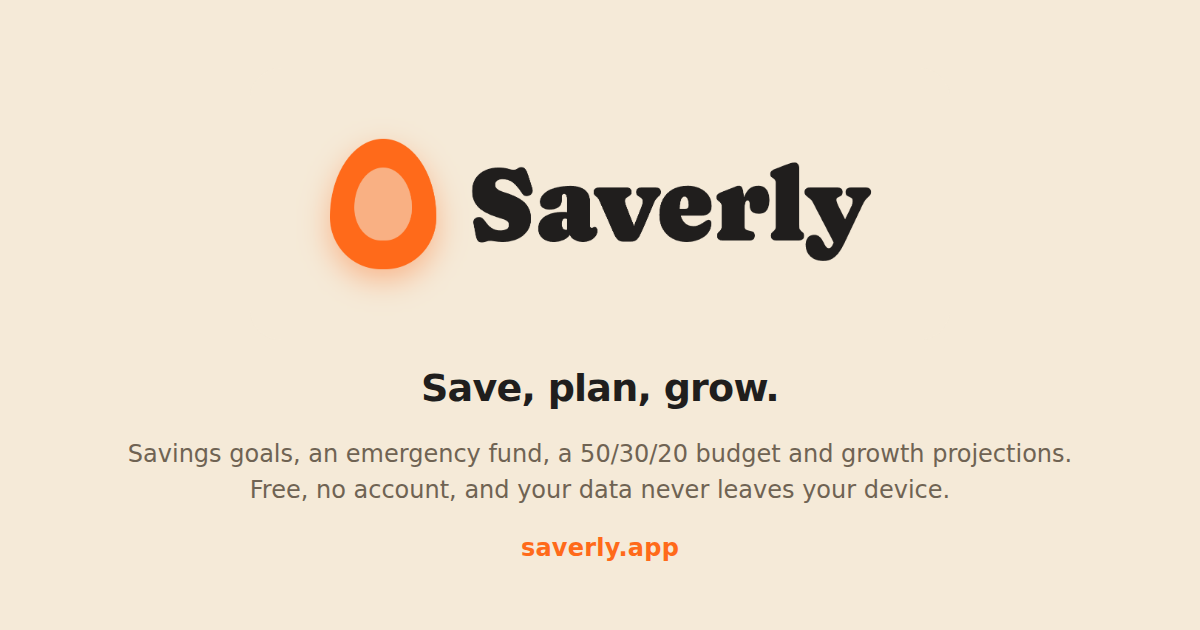
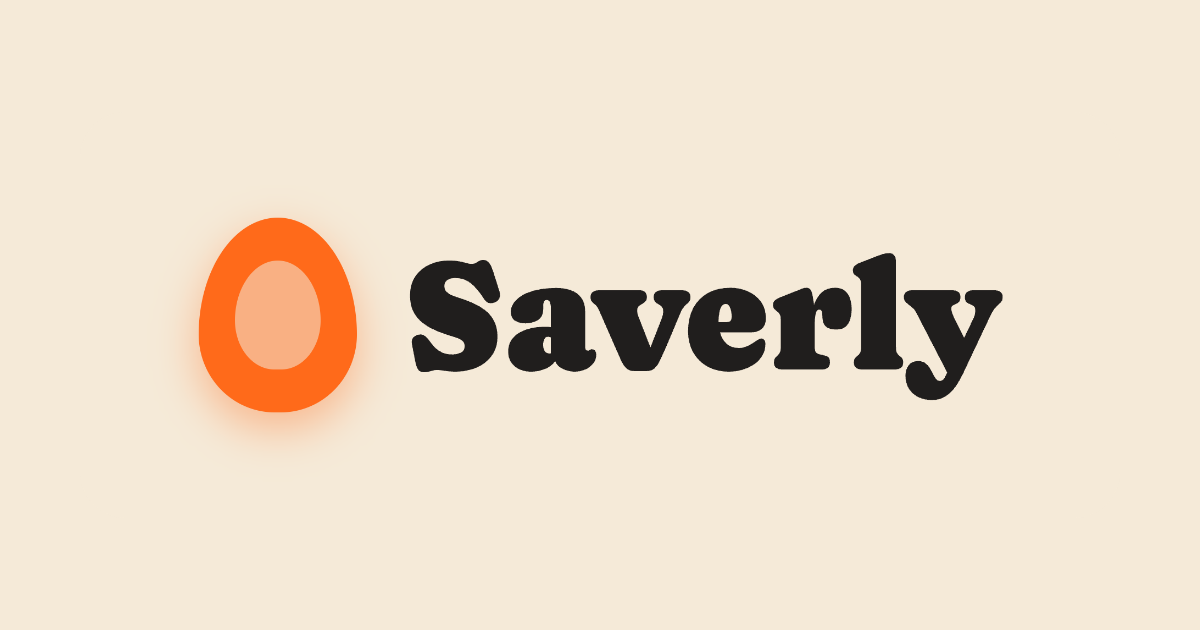
alteração imagem WhatsApp
alteração imagem WhatsApp

Changed region(s): [[0.0925, 0.2111, 0.8942, 0.8143], [0.4317, 0.8444, 0.5858, 0.9048]]

diff --git a/app.html b/app.html
@@ -17,7 +17,7 @@
   <meta property="og:image" content="https://saverly.app/og-image.png" />
   <meta property="og:image:width" content="1200" />
   <meta property="og:image:height" content="630" />
-  <meta property="og:image:alt" content="Saverly - save, plan, grow" />
+  <meta property="og:image:alt" content="Saverly" />
   <meta property="og:locale" content="en_GB" />
   <meta name="twitter:card" content="summary_large_image" />
   <meta name="twitter:title" content="Saverly - Free Savings Goal Tracker &amp; Budget Planner" />

diff --git a/index.html b/index.html
@@ -16,7 +16,7 @@
   <meta property="og:image" content="https://saverly.app/og-image.png" />
   <meta property="og:image:width" content="1200" />
   <meta property="og:image:height" content="630" />
-  <meta property="og:image:alt" content="Saverly - save, plan, grow" />
+  <meta property="og:image:alt" content="Saverly" />
   <meta property="og:locale" content="en_GB" />
   <meta property="og:locale:alternate" content="pt_PT" />
   <meta name="twitter:card" content="summary_large_image" />

diff --git a/sw.js b/sw.js
@@ -1,6 +1,6 @@
 // Service worker for Saverly — offline-first via stale-while-revalidate.
 // Bump the cache version when you ship breaking changes to assets.
-const CACHE_NAME = "saverly-v14";
+const CACHE_NAME = "saverly-v15";
 const ASSETS = [
   "./",
   "./index.html",
